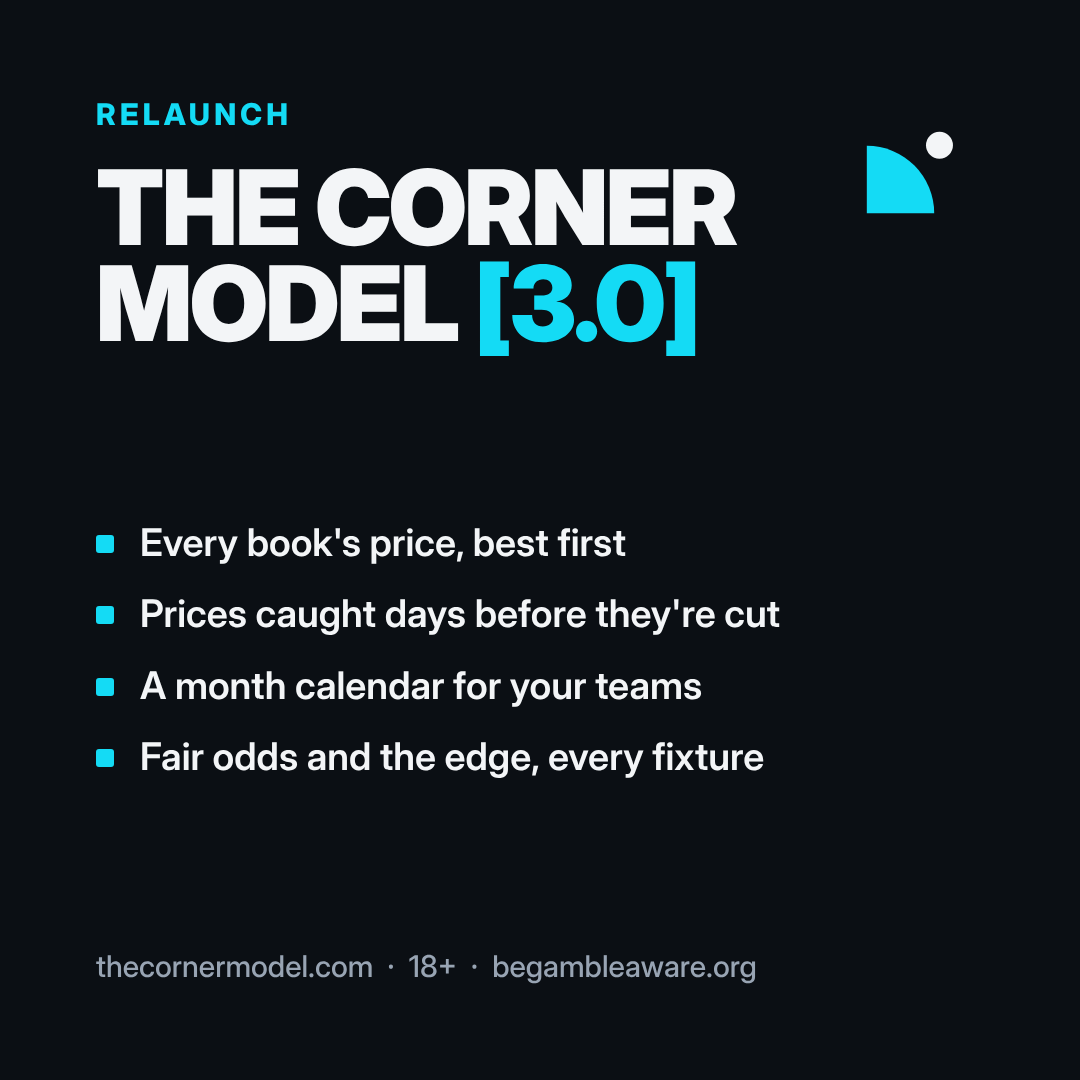
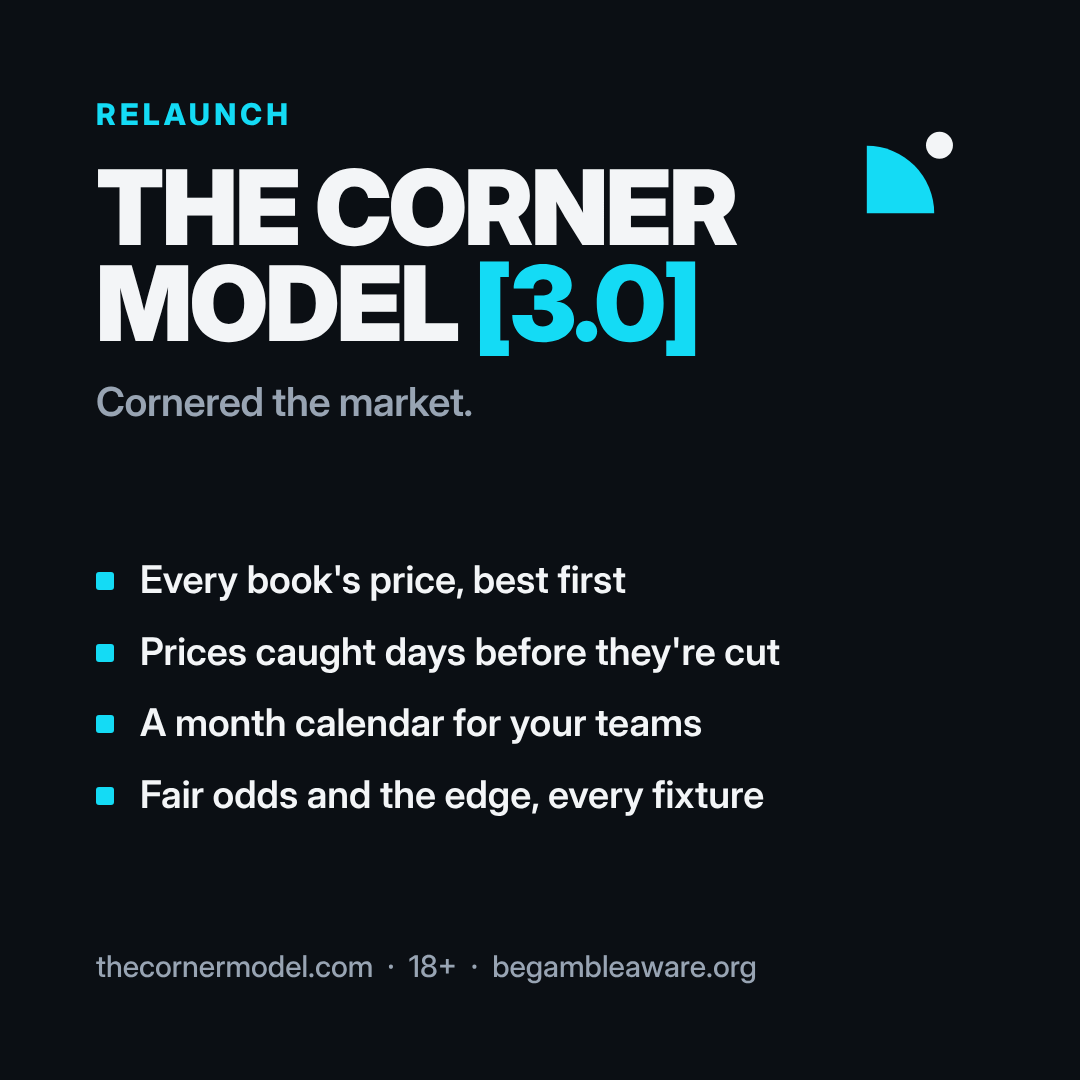
Set the slogan: Cornered the market
IT REPLACES THE HEADER'S SUBTITLE rather than joining it. A slogan and a sentence
of explanation in one band are two voices, and X puts the bio directly under the
header to carry the explanation — so the header is the name, the version and the
line, and nothing else.

Near-white at 40px, where the old subtitle was muted at 28px and read as a caption
under the name rather than as a line of its own.

On the card it stays muted and sits under the wordmark, so the four features
remain the loudest thing below it: a relaunch card's job is what changed.

Not on the avatar or the channel photo — at 40px that is the old logo's mistake
again, and both already carry the version.

Claude-Session: https://claude.ai/code/session_01RLjLbrLaz2cYJiMbeJ6pFQ

Changed region(s): [[0.0917, 0.4889, 0.7333, 0.7639], [0.0917, 0.3361, 0.4278, 0.3972]]

diff --git a/brand/relaunch.html b/brand/relaunch.html
@@ -24,7 +24,10 @@
   #header{width:1500px;height:500px;display:flex;align-items:center;
           padding:70px 96px 70px 420px}
   #header .word{font-size:104px}
-  #header .sub{font-size:28px;margin-top:22px}
+  /* Set as a line of its own, not as small print: near-white at 40px, where the old
+     muted 28px subtitle read as a caption under the name. */
+  #header .slogan{font-size:40px;font-weight:600;letter-spacing:-.01em;margin-top:26px;
+                  color:var(--ball)}
 
   /* --- Square announcement card: 1080x1080 -------------------------------------------- */
   #card{width:1080px;height:1080px;padding:96px;display:flex;flex-direction:column;
@@ -37,13 +40,15 @@
            align-items:flex-start}
   #card li::before{content:"";width:18px;height:18px;margin-top:17px;flex:0 0 auto;
                    background:var(--accent);border-radius:3px}
+  #card .slogan{color:var(--muted);font-size:40px;font-weight:600;margin-top:26px;
+                letter-spacing:-.01em}
   #card .foot{color:var(--muted);font-size:30px;font-weight:500}
 </style>
 
 <div class="stage" id="header">
   <div>
     <div class="word">The Corner<br>Model <span class="ver">[<span class="v">7.0</span>]</span></div>
-    <div class="sub">Corner models, priced against every book — fair odds, and the edge on them.</div>
+    <div class="slogan">Cornered the market.</div>
   </div>
 </div>
 
@@ -56,6 +61,7 @@
   <div>
     <div class="kicker">Relaunch</div>
     <div class="word" style="margin-top:28px">The Corner<br>Model <span class="ver">[<span class="v">7.0</span>]</span></div>
+    <div class="slogan">Cornered the market.</div>
   </div>
   <ul>
     <li>Every book's price, best first</li>

diff --git a/brand/README.md b/brand/README.md
@@ -17,6 +17,19 @@ than redrawn beside it. `mark.html` holds the geometry; `render.cjs` renders it.
 | `x-header-3-0.png` | X header (1500×500) |
 | `relaunch-card-3-0.png` | square relaunch card (1080×1080), for posting |
 
+## The slogan
+
+**Cornered the market.** It carries the header on its own, which is why the header's old
+explanatory subtitle came off rather than moving down: a slogan and a sentence of
+explanation in the same band are two voices, and on X the bio sits directly under the
+header to do the explaining.
+
+On the card it is muted and under the wordmark, so the four features stay the loudest
+thing below it — a relaunch card's job is what changed, not the tagline.
+
+It is not on the avatar or the channel photo. At 40px it would be the old logo's mistake
+again, and those already carry the version.
+
 ## Why 3.0 and not 7.0
 
 **There are two lineages, and only one of them is this one.** The original project was a
